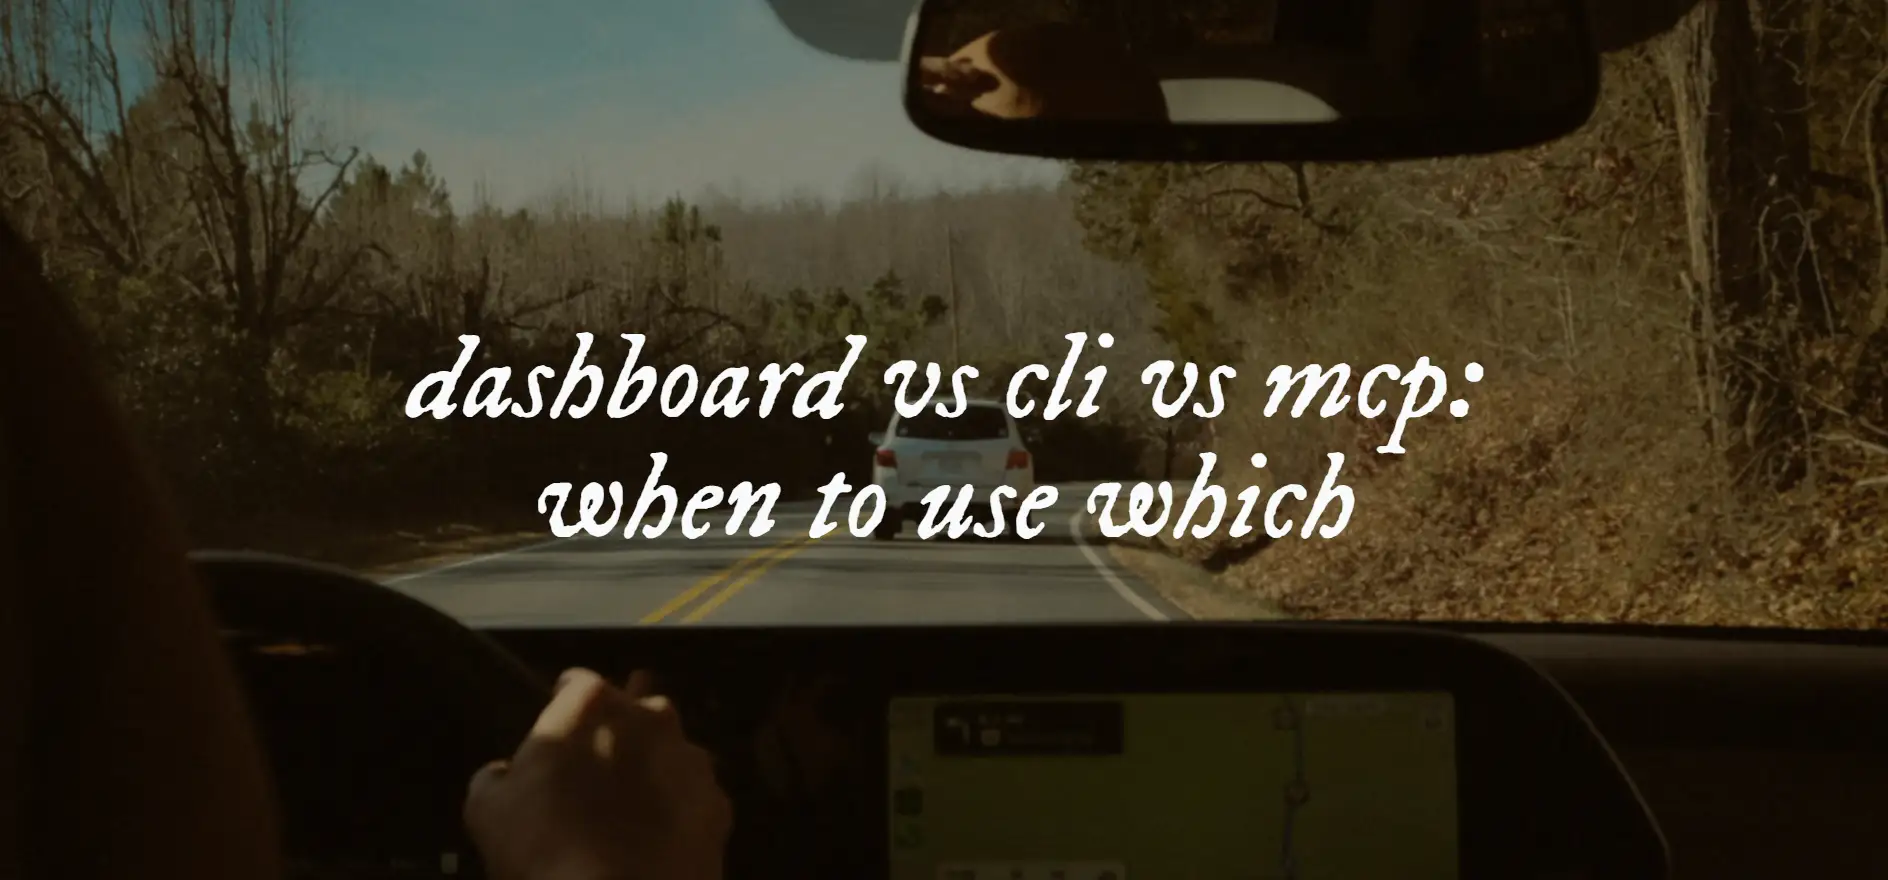
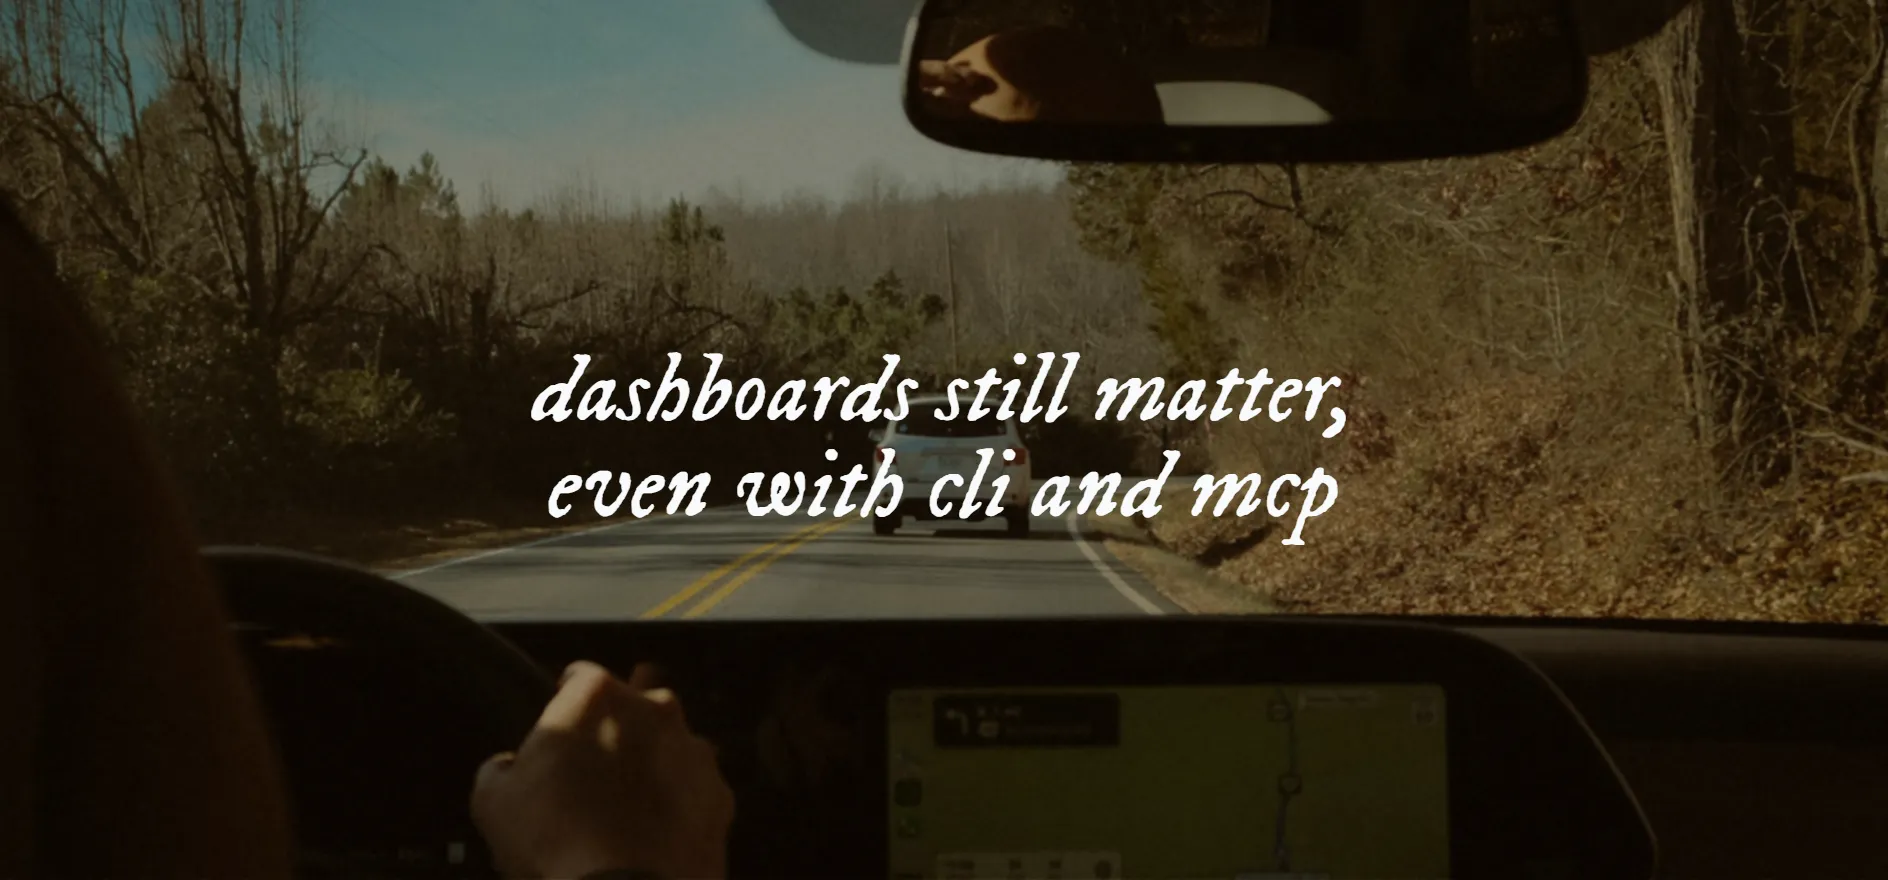
fix some titles

diff --git a/src/contents/blog/dashboard-vs-cli-mcp.md b/src/contents/blog/dashboard-vs-cli-mcp.md
@@ -1,11 +1,11 @@
 ---
-title: 'Dashboard vs CLI vs MCP: When to Use Which'
+title: Dashboards still matter, even with CLI and MCP
 image: ./images/dashboard-vs-cli-mcp.webp
-imageCaption: 'An image with the text "dashboard vs cli vs mcp: when to use which"'
+imageCaption: 'An image with the text "dashboards still matter, even with cli and mcp"'
 imageCredit: fruitfullmedia
 imageLink: https://unsplash.com/photos/a-person-driving-a-car-on-a-road-next-to-a-forest-fey671cCzNo
-description: How I actually choose between dashboard, CLI, and MCP
-metaDescription: Comparing dashboards, CLIs, and MCP tools with real-world examples from Supabase, Vercel, a game admin portal, and a personal side project.
+description: I stopped worrying about the dashboard becoming a relic
+metaDescription: CLI and MCP can do everything a dashboard does, but that was never the question. Real examples from Supabase, Vercel, a game admin portal, and a personal side project on why the dashboard still earns its place.
 publishedAt: 2026-07-26T14:55:27.000Z
 status: published
 ---

diff --git a/src/contents/blog/blogging-journey-technical-writing.md b/src/contents/blog/blogging-journey-technical-writing.md
@@ -1,10 +1,10 @@
 ---
-title: 'How My Blogging Evolved: From Cringy Posts to Technical Writing'
+title: My Blogging Evolved from Cringy Posts to Technical Writing
 image: ./images/blogging-journey-technical-writing.webp
-imageCaption: 'An image with the text "how my blogging evolved: from cringy posts to technical writing"'
+imageCaption: 'An image with the text "my blogging evolved from cringy posts to technical writing"'
 imageCredit: Wahyu Pratama
 imageLink: https://unsplash.com/photos/jco-signage-Ps6OvCkHSlM
-description: How I stopped blogging like a middle schooler
+description: I stopped blogging like a middle schooler
 metaDescription: A frontend developer reflects on years of blogging — from early Blogspot experiments and cringy copy-paste posts to building a modern tech blog with Astro. Here's what changed.
 publishedAt: 2024-04-14T08:56:39.248Z
 status: published

diff --git a/.claude/rules/writing-style.md b/.claude/rules/writing-style.md
@@ -12,6 +12,8 @@ These are tells that make content read as AI-generated. Avoid all of them.
 - Stacking two or more adjectives in a row when one would do
 - Bullet-pointing everything instead of writing it out as prose
 - Colons in post titles (e.g. "X: How Y") — rephrase as a single clause instead
+- Question words leading post titles or descriptions ("How I…", "Why X…", "What Is…") — rephrase as a statement instead. metaDescription is exempt.
+- Title Case applied to short particles in titles (articles, prepositions, conjunctions like "a", "an", "the", "if", "from", "to", "and", "or", "in", "on", "with") — keep these lowercase unless they're the first word
 
 **Opener patterns**
 - "In today's fast-paced world…" / "In today's [any noun] world"

diff --git a/src/contents/blog/better-api-validation-failure-handling.md b/src/contents/blog/better-api-validation-failure-handling.md
@@ -4,7 +4,7 @@ image: ./images/better-api-validation-failure-handling.webp
 imageCaption: An image with the text "how a feature flag saved our api response validation"
 imageCredit: Nong
 imageLink: https://unsplash.com/photos/a-close-up-of-a-computer-screen-with-a-sign-on-it-O_Xy25Dj7Mo
-description: How one feature flag saved our team from production errors and midnight wake-ups
+description: One feature flag saved our team from production errors and midnight wake-ups
 metaDescription: How a simple feature flag helped us control API validation, prevent Zod errors in production, unblock clients instantly, and stop overnight wake-ups for trivial fixes.
 publishedAt: 2025-12-10T14:42:30.714Z
 status: published

diff --git a/src/contents/blog/qawwam-meaning-in-the-quran.md b/src/contents/blog/qawwam-meaning-in-the-quran.md
@@ -1,7 +1,7 @@
 ---
-title: 'Qawwam Meaning in the Quran: Responsibility, Not Domination'
+title: Qawwam Meaning in the Quran is about Responsibility, Not Domination
 image: ./images/qawwam-meaning-in-the-quran.webp
-imageCaption: 'An image with the text "qawwam meaning in the quran: responsibility, not domination"'
+imageCaption: 'An image with the text "qawwam meaning in the quran is about responsibility, not domination"'
 imageCredit: Kelli McClintock
 imageLink: https://unsplash.com/photos/man-in-white-shirt-carrying-boy-wBgAVAGjzFg
 description: A rather comprehensive explanation about the true meaning of qawwam

diff --git a/src/contents/blog/claude-code-skills-vs-subagents.md b/src/contents/blog/claude-code-skills-vs-subagents.md
@@ -1,5 +1,5 @@
 ---
-title: No More Skill Issues (Or Subagent Ones)
+title: No More Skill Issues (or Subagent Ones)
 image: ./images/claude-code-skills-vs-subagents.webp
 imageCaption: A billboard reading "no more skill issues"
 imageCredit: Igor Shalyminov
